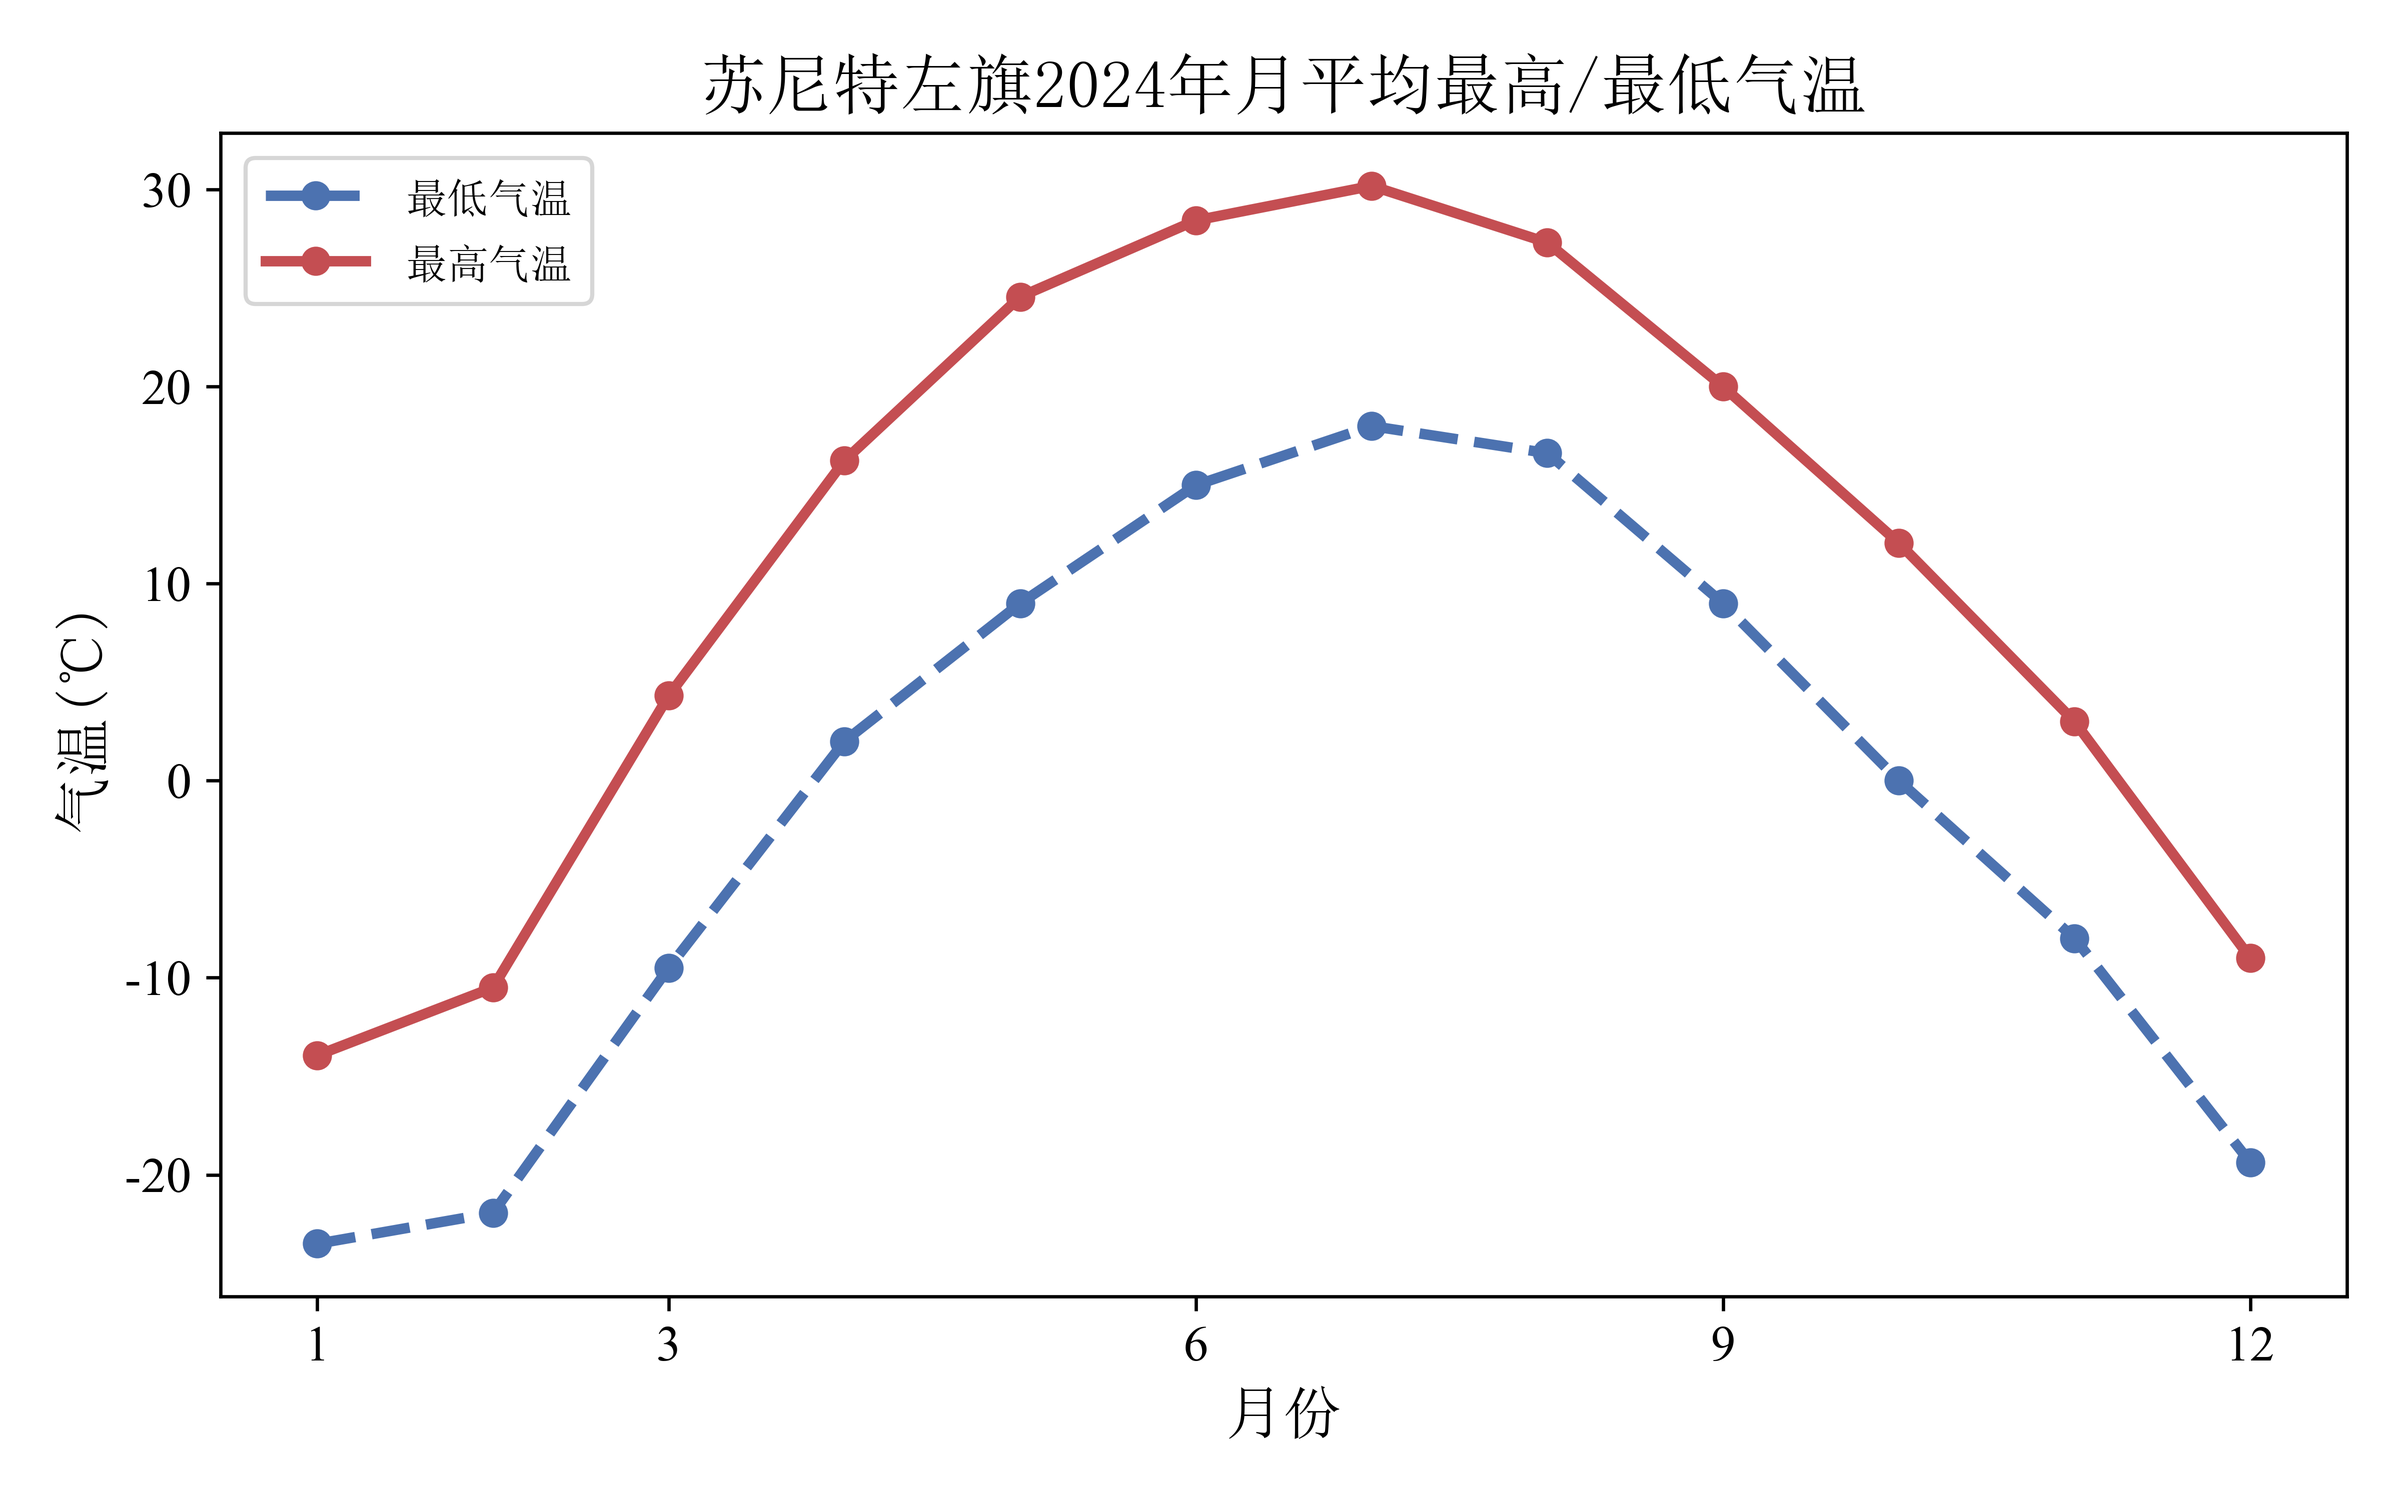
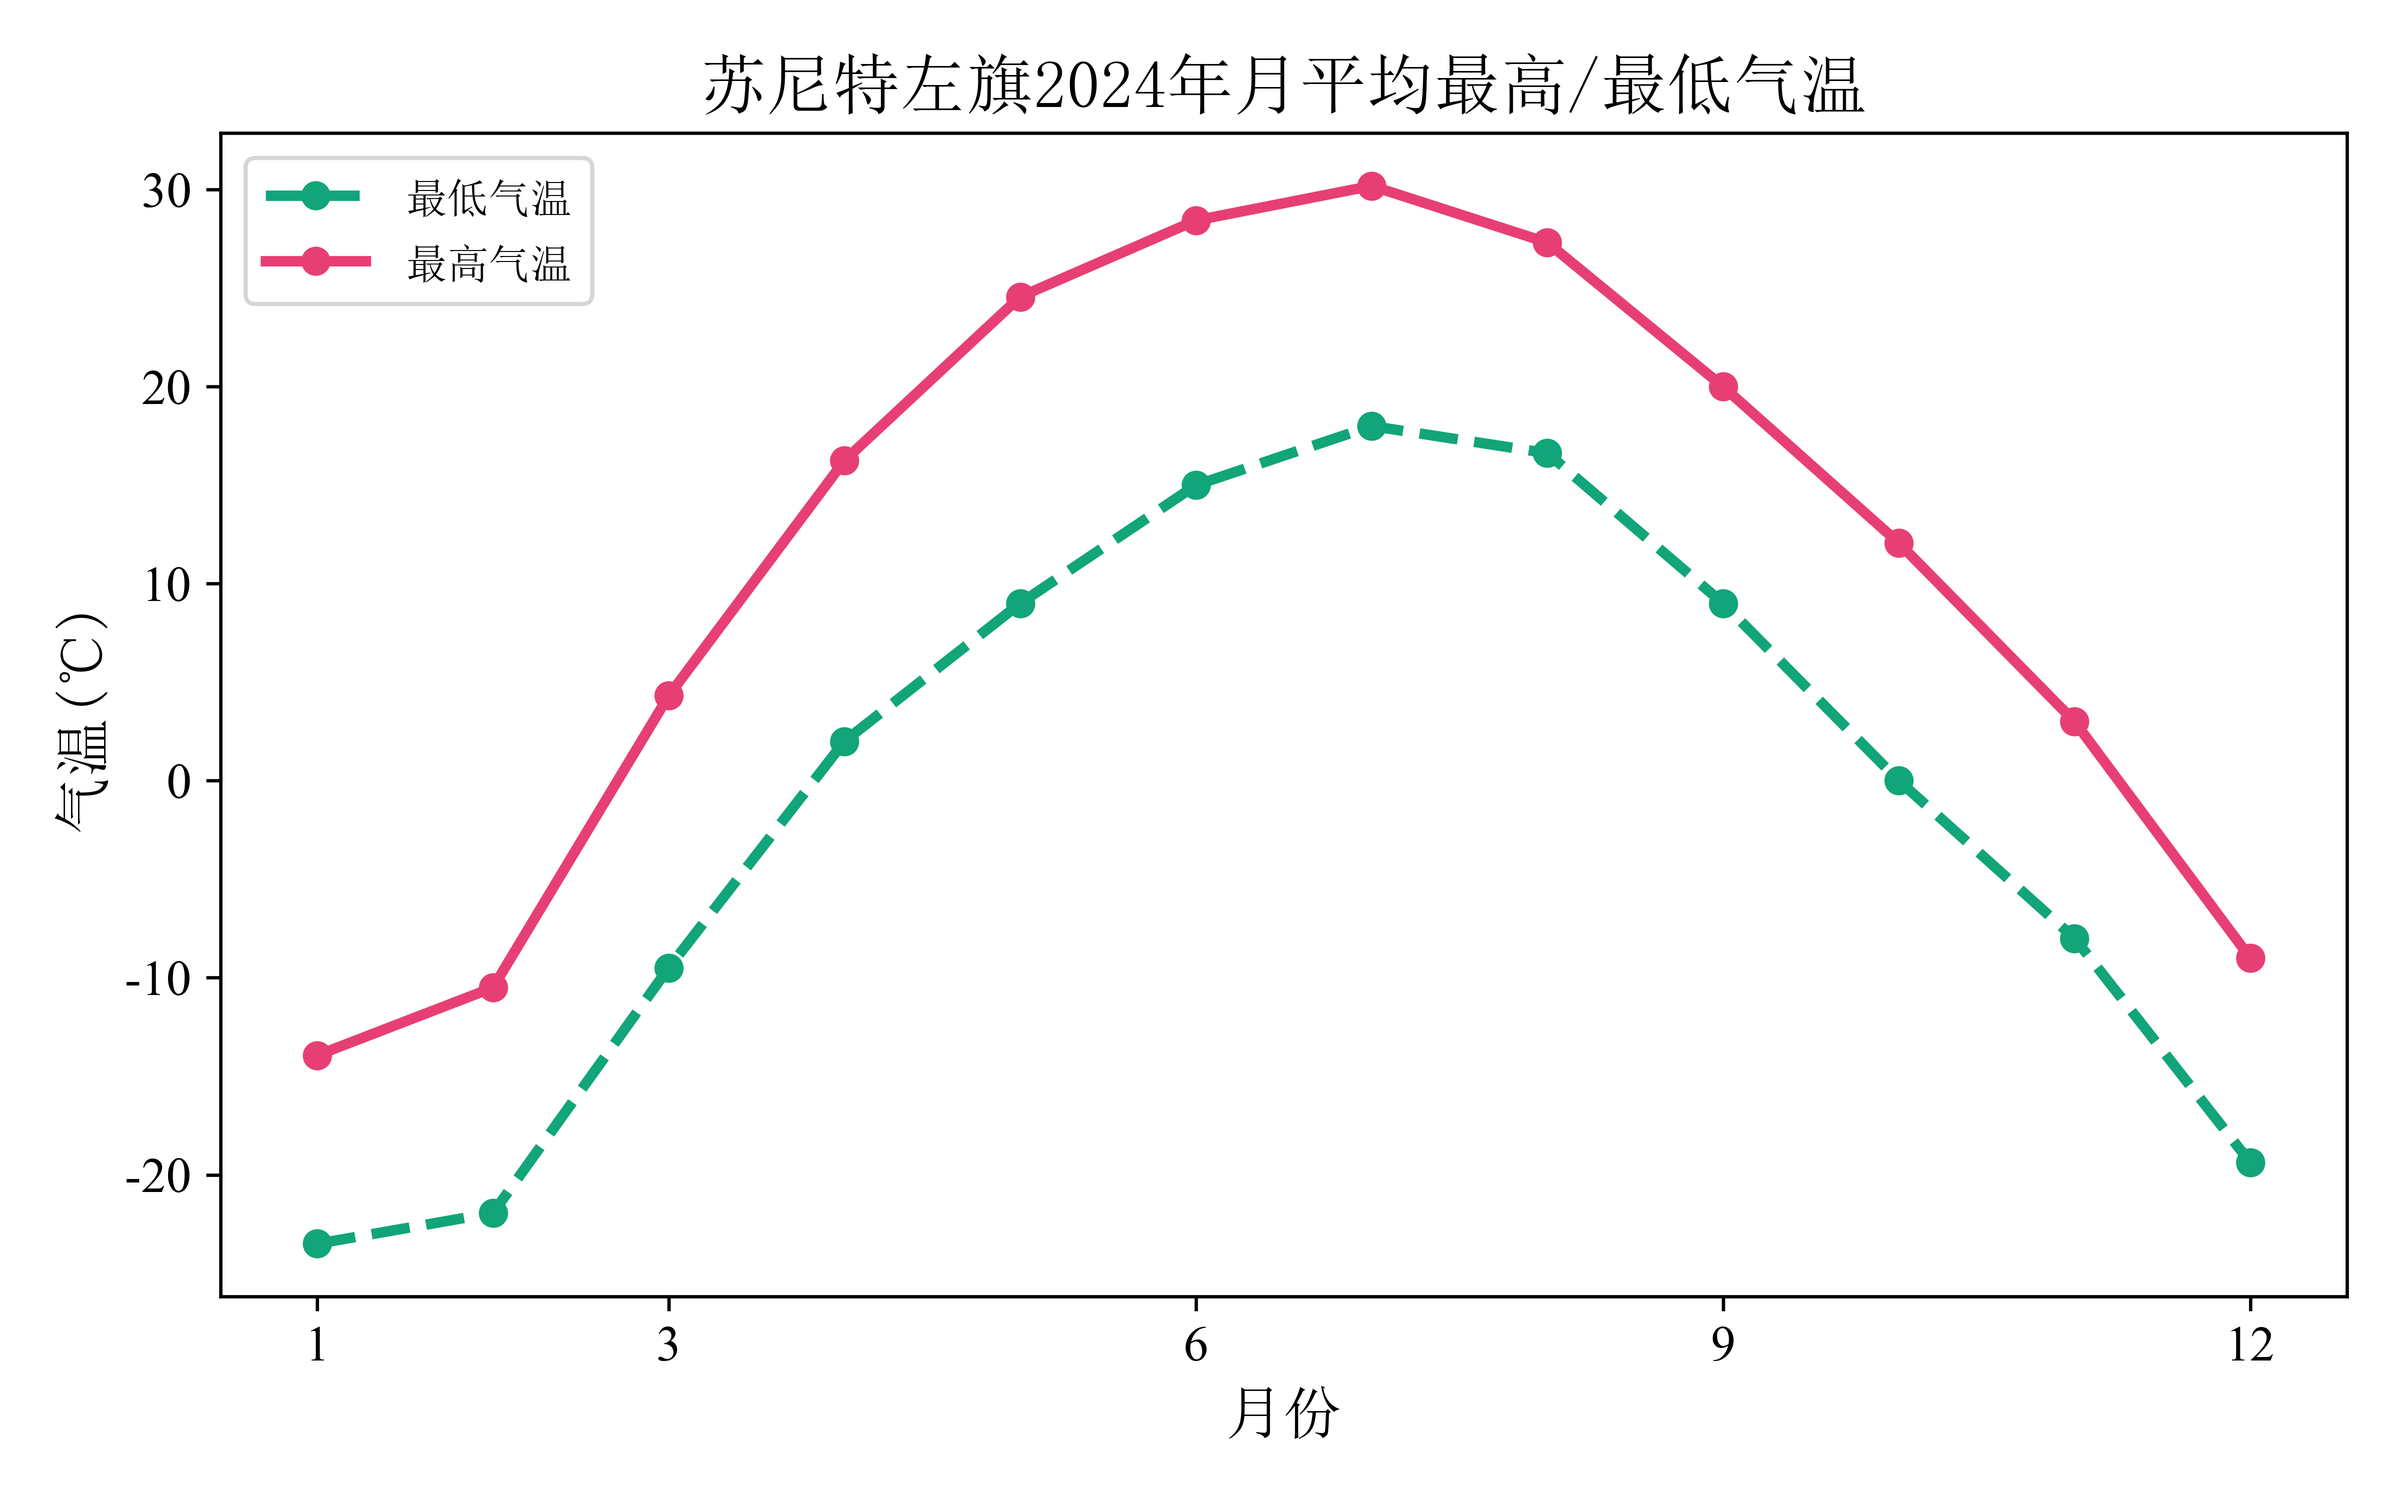
生信分析脚本汇总

diff --git a/script/plots/草地类型饼图.py b/script/plots/草地类型饼图.py
@@ -3,16 +3,12 @@ import numpy as np
 import matplotlib.pyplot as plt
 from matplotlib.font_manager import FontProperties
 
-# ===================== 1. 字体设置 =====================
-# 全局默认字体：Times New Roman（英文和数字）
-plt.rcParams['font.family'] = 'Times New Roman'
-plt.rcParams['axes.unicode_minus'] = False  # 解决负号显示问题
+# ===================== 字体设置 =====================
+plt.rcParams['font.family'] = 'Times New Roman'   # 数字/英文
+plt.rcParams['axes.unicode_minus'] = False
+ch_font = FontProperties(family='SimSun')         # 中文宋体（必要时用绝对路径）
 
-# 中文宋体（SimSun）
-# 如果报错，可以改为绝对路径：FontProperties(fname=r"C:\Windows\Fonts\simsun.ttc")
-ch_font = FontProperties(family='SimSun')
-
-# ===================== 2. 数据 =====================
+# ===================== 数据 =====================
 types = [
     '温性荒漠草原',
     '温性草原',
@@ -21,98 +17,75 @@ types = [
     '低湿地草甸',
     '温性山地草甸'
 ]
-
-areas = [
-    30323.33,
-    92688.40,
-    26597.07,
-    4071.93,
-    31243.13,
-    3903.14
-]
-
+areas = [30323.33, 92688.40, 26597.07, 4071.93, 31243.13, 3903.14]
 total_area = sum(areas)
 percentages = [a / total_area * 100 for a in areas]
 
-# ===================== 3. SCI 风格配色 =====================
-# 参考常见 SCI 图配色（高对比度、偏冷静）
+# ===================== 配色（Paul Tol 风格，SCI 常用） =====================
+# 参考 Tol (vibrant/bright) 色板；见 CRAN khroma 文档
 colors = [
-    '#4C72B0',  # 蓝
-    '#55A868',  # 绿
-    '#C44E52',  # 红
-    '#8172B2',  # 紫
-    '#CCB974',  # 黄棕
-    '#64B5CD'   # 青蓝
+    '#3969AC',  # 蓝
+    '#11A579',  # 绿
+    '#E73F74',  # 洋红
+    '#F2B701',  # 金黄
+    '#80BA5A',  # 浅绿
+    '#7F3C8D'   # 紫
 ]
 
-# ===================== 4. 绘图 =====================
+# ===================== 绘图 =====================
 fig, ax = plt.subplots(figsize=(8, 8))
 
-# 仅画扇区，不让 pie 自己画百分比文字
+# 扇区加白色描边，视觉更干净
 wedges, _ = ax.pie(
     areas,
     labels=None,
     colors=colors,
     startangle=90,
     counterclock=False,
-    radius=1.0
+    radius=1.0,
+    wedgeprops=dict(linewidth=1, edgecolor='white')
 )
 
-ax.set_title('锡林郭勒盟草地资源比例图',
-             fontproperties=ch_font,
-             fontsize=20)
+ax.set_title('锡林郭勒盟草地资源比例图', fontproperties=ch_font, fontsize=20)
+ax.axis('equal')  # 圆形
 
-ax.axis('equal')  # 保证为正圆
-
-# ===================== 5. 手动画“支出来”的百分比 + 线条 =====================
-# 思路：根据每个扇区的中心角，算出起点和终点坐标，用 annotate 拉一根小线，再在末端写百分比
-
+# ===================== 手动画“支出”百分比（两段式折线） =====================
+# 思路：在圆周 r=1.0 取扇区中心角，起点=圆周点；折线先径向一点，再水平拉出；文本放在末端
 for wedge, pct in zip(wedges, percentages):
-    # 扇区角度中心（度 -> 弧度）
-    theta = 0.5 * (wedge.theta1 + wedge.theta2)
-    theta_rad = np.deg2rad(theta)
-
-    # 扇区外沿上的一个点（线的起点）
-    x = np.cos(theta_rad)
-    y = np.sin(theta_rad)
+    theta = np.deg2rad(0.5 * (wedge.theta1 + wedge.theta2))
     r = 1.0
+    # 圆周上的起点（精确在饼图边缘）
+    x0, y0 = r * np.cos(theta), r * np.sin(theta)
 
-    # 线条起点和终点
-    # 起点稍微在扇区外沿里一点，终点在圆外
-    start_x = r * 0.9 * x
-    start_y = r * 0.9 * y
-    end_x = r * 1.2 * x
-    end_y = r * 1.2 * y
+    # 折线终点（圆外），适度外扩
+    r_text = 1.28  # 文本半径
+    xt, yt = r_text * np.cos(theta), r_text * np.sin(theta)
 
-    # 文本位置再比线条终点稍微外一点
-    text_x = r * 1.32 * x
-    text_y = r * 1.32 * y
-
-    # 根据左右位置调整对齐方式
-    if x >= 0:
+    # 根据左右半区设置水平偏移与对齐
+    if np.cos(theta) >= 0:
         ha = 'left'
+        xt += 0.02
     else:
         ha = 'right'
+        xt -= 0.02
 
-    # 百分比文本（Times New Roman）
+    # 使用 angle3 形成“径向+水平”两段式领引线
     ax.annotate(
         f"{pct:.1f}%",
-        xy=(start_x, start_y),
-        xytext=(text_x, text_y),
-        ha=ha,
-        va='center',
-        fontsize=12,
-        fontfamily='Times New Roman',
+        xy=(x0, y0),            # 线的起点：圆周边缘
+        xytext=(xt, yt),        # 文本位置：圆外
+        ha=ha, va='center',
+        fontsize=14, fontweight='bold', fontfamily='Times New Roman',
         arrowprops=dict(
             arrowstyle='-',
             color='black',
-            lw=0.8,
-            shrinkA=0,
-            shrinkB=0,
+            lw=1.0,
+            shrinkA=0, shrinkB=0,
+            connectionstyle='angle3,angleA=0,angleB=90'  # 两段式折线
         )
     )
 
-# ===================== 6. 图例（中文宋体，只标类型） =====================
+# ===================== 图例（仅类型名，中文宋体） =====================
 ax.legend(
     wedges,
     types,
@@ -126,13 +99,10 @@ ax.legend(
 
 plt.tight_layout()
 
-# ===================== 7. 保存到指定路径 =====================
+# ===================== 保存 =====================
 output_dir = r"E:\桌面\武汉数据\苏尼特牛"
 os.makedirs(output_dir, exist_ok=True)
-
 output_path = os.path.join(output_dir, "锡林郭勒盟草地资源比例图.png")
-
 plt.savefig(output_path, dpi=600, bbox_inches='tight')
 plt.close()
-
 print(f"已生成：{output_path}")

diff --git a/script/plots/气候对比图.py b/script/plots/气候对比图.py
@@ -28,7 +28,7 @@ out_dir = r"D:\Python\script\pythonProject\data\result"
 os.makedirs(out_dir, exist_ok=True)
 
 # ==============================
-# 2. 字体设置
+# 2. 字体与配色
 # ==============================
 
 # 全局默认字体：Times New Roman（数字、英文字母）
@@ -38,6 +38,19 @@ plt.rcParams["axes.unicode_minus"] = False  # 解决负号显示问题
 # 中文宋体（用于标题、坐标轴标签、图例中文）
 # 如果报错，可改为绝对路径：FontProperties(fname=r"C:\Windows\Fonts\simsun.ttc")
 ch_font = FontProperties(family="SimSun")
+
+# 你指定的两种配色
+COL_TMAX = "#E73F74"   # 最高气温（洋红）
+COL_TMIN = "#11A579"   # 最低气温（绿色）
+COL_PREC = "#11A579"   # 降水量柱形同用绿色（形状区分：柱 vs 线）
+
+# 统一字号略大一些，适合论文插图
+plt.rcParams["font.size"] = 12
+plt.rcParams["axes.titlesize"] = 16
+plt.rcParams["axes.labelsize"] = 14
+plt.rcParams["xtick.labelsize"] = 12
+plt.rcParams["ytick.labelsize"] = 12
+plt.rcParams["legend.fontsize"] = 12
 
 # ==============================
 # 3. 提取月尺度数据的函数
@@ -82,16 +95,8 @@ tmin = tmin_data[site_name]
 tmax = tmax_data[site_name]
 prec = prec_data[site_name]
 
-# 统一字号略大一些，适合论文插图
-plt.rcParams["font.size"] = 12
-plt.rcParams["axes.titlesize"] = 16
-plt.rcParams["axes.labelsize"] = 14
-plt.rcParams["xtick.labelsize"] = 12
-plt.rcParams["ytick.labelsize"] = 12
-plt.rcParams["legend.fontsize"] = 12
-
 # ==============================
-# 5. 图 1：苏尼特左旗月平均最高/最低气温
+# 5. 图 1：苏尼特左旗月平均最高/最低气温（两色）
 # ==============================
 
 fig, ax = plt.subplots(figsize=(8, 5))
@@ -99,7 +104,7 @@ fig, ax = plt.subplots(figsize=(8, 5))
 ax.plot(
     months, tmin,
     marker='o', linestyle='--',
-    color="#4C72B0",
+    color=COL_TMIN,
     linewidth=2.5,
     label="最低气温"
 )
@@ -107,20 +112,16 @@ ax.plot(
 ax.plot(
     months, tmax,
     marker='o', linestyle='-',
-    color="#C44E52",
+    color=COL_TMAX,
     linewidth=2.5,
     label="最高气温"
 )
 
 ax.set_xticks([1, 3, 6, 9, 12])
-# 坐标轴中文标签
 ax.set_xlabel("月份", fontproperties=ch_font, fontsize=14)
 ax.set_ylabel("气温(℃)", fontproperties=ch_font, fontsize=14)
+ax.set_title(f"苏尼特左旗{year}年月平均最高/最低气温", fontproperties=ch_font, fontsize=16)
 
-ax.set_title(f"苏尼特左旗{year}年月平均最高/最低气温",
-             fontproperties=ch_font, fontsize=16)
-
-# 图例中文
 legend = ax.legend(loc="upper left")
 for text in legend.get_texts():
     text.set_fontproperties(ch_font)
@@ -131,11 +132,10 @@ fig.tight_layout()
 temp_fig_path = os.path.join(out_dir, f"苏尼特左旗_气温_{year}.png")
 fig.savefig(temp_fig_path, dpi=600)
 plt.close(fig)
-
 print(f"气温图已保存到: {temp_fig_path}")
 
 # ==============================
-# 6. 图 2：苏尼特左旗月降水量
+# 6. 图 2：苏尼特左旗月降水量（同用绿色）
 # ==============================
 
 fig, ax = plt.subplots(figsize=(8, 5))
@@ -143,7 +143,7 @@ fig, ax = plt.subplots(figsize=(8, 5))
 ax.bar(
     months, prec,
     width=0.6,
-    color="#55A868",
+    color=COL_PREC,
     edgecolor="black",
     label="降水量"
 )
@@ -151,9 +151,7 @@ ax.bar(
 ax.set_xticks([1, 3, 6, 9, 12])
 ax.set_xlabel("月份", fontproperties=ch_font, fontsize=14)
 ax.set_ylabel("降水量(mm)", fontproperties=ch_font, fontsize=14)
-
-ax.set_title(f"苏尼特左旗{year}年月降水量",
-             fontproperties=ch_font, fontsize=16)
+ax.set_title(f"苏尼特左旗{year}年月降水量", fontproperties=ch_font, fontsize=16)
 
 legend = ax.legend(loc="upper left")
 for text in legend.get_texts():
@@ -165,11 +163,10 @@ fig.tight_layout()
 prec_fig_path = os.path.join(out_dir, f"苏尼特左旗_降水量_{year}.png")
 fig.savefig(prec_fig_path, dpi=600)
 plt.close(fig)
-
 print(f"降水量图已保存到: {prec_fig_path}")
 
 # ==============================
-# 7. 在终端打印中文表头，方便核对
+# 7. 终端打印中文表头，方便核对
 # ==============================
 
 print(f"\n=== 苏尼特左旗{year}年月平均最高/最低气温(℃) ===")
